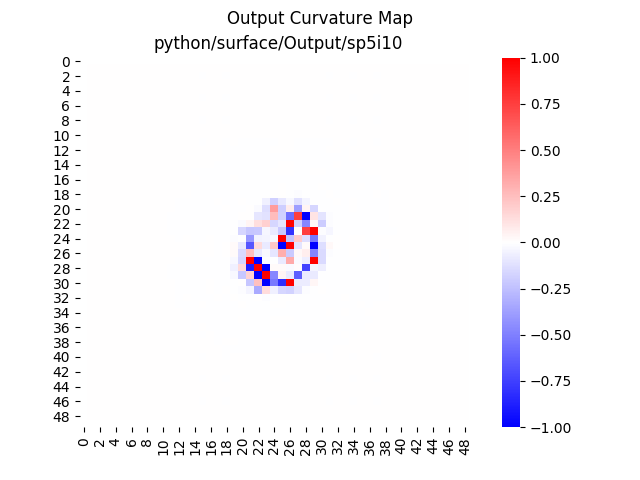
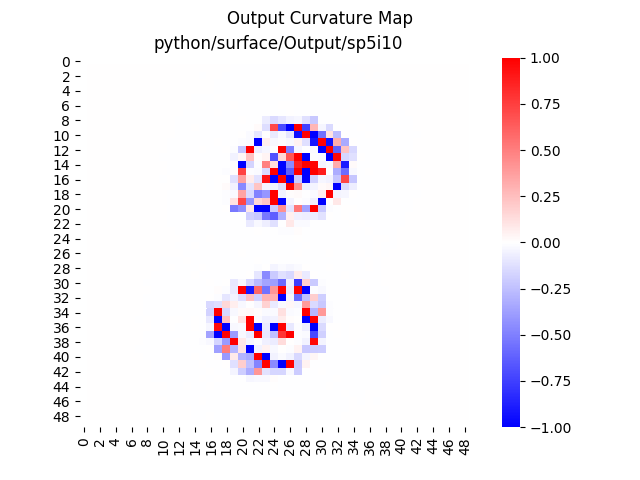
Add niter and smooth_pen variables for surface generation

Changed region(s): [[0.3125, 0.2188, 0.5625, 0.7812]]

diff --git a/js/script.js b/js/script.js
@@ -372,6 +372,7 @@ window.onload = function() {
   hideSurface.style.visibility = "hidden"
   document.getElementById("hide-surface-label").style.visibility = "hidden"
   let chkCalcSurface = document.getElementById("use-calc-surface")
+  let useTransp = document.getElementById("use-transparency")
   let showMap = document.getElementById("show-map")
 
 
@@ -731,7 +732,7 @@ window.onload = function() {
       let z3 = plane.geometry.vertices[face.c].z
       let hide = false
       let v = face.a
-      let i = v/divisions
+      let i = Math.floor(v/divisions)
       let j = v%divisions
       // if (z1 > 1)
       //   face.vertexColors[0].setHSL( 1, 0, 0.5);
@@ -794,11 +795,13 @@ window.onload = function() {
         face.materialIndex = 1
       } else if (false && hideSurface.checked && (z1 < -2.4 || z2 < -2.4 || z3 < -2.4)) { // Inward edge
         face.materialIndex = 1
-      } else if (transparent) {
+      } else if (transparent && useTransp.checked) {
         face.materialIndex = 2
       } else {
         face.materialIndex = 0
       }
+
+
     }
 
     contourCount++
@@ -1579,13 +1582,15 @@ function vertexPositionChange() {
 
 }
 
-function addVertex(obj, x, y, drawPoint, name, lat=0, long=0) {
+function addVertex(obj, x, y, drawPoint, name, lat=null, long=null) {
   if (typeof drawPoint == 'undefined')
     drawPoint = true
 
-  if (lat == 0 && long == 0) {
-    lat = x
-    long = y
+  if (lat == null) {
+    lat = x*155/10
+  }
+  if (long == null) {
+    long = y*180/10
   }
   if (typeof x == 'undefined') {
     x = getRandomArbitrary(-6, 6).toFixed(2)
@@ -2198,7 +2203,9 @@ function calcSurface() {
   var xmlHttp = new XMLHttpRequest();
   // xmlHttp.responseType = "arraybuffer"
   xmlHttp.responseType = "text"
-  console.log(data)
+  var smooth_pen = document.getElementById("input-smooth").value
+  var niter = document.getElementById("input-niter").value
+  var send_data = {graph: data, smooth_pen: smooth_pen, niter: niter}
 
   xmlHttp.onreadystatechange = function()
   {
@@ -2233,8 +2240,8 @@ function calcSurface() {
   }
   xmlHttp.open("post", "calc-surface");
   xmlHttp.setRequestHeader("Content-Type", "application/json;charset=UTF-8");
-
-  xmlHttp.send(JSON.stringify(data));
+  console.log(send_data)
+  xmlHttp.send(JSON.stringify(send_data));
   console.log("data sent")
   dataSent = true
   document.body.style.cursor = "progress"

diff --git a/index.html b/index.html
@@ -49,8 +49,17 @@
       </div>
       <div id="div-extra" class="gui-box">
         <!-- <button type="button" id="btn-scrn">Take screenshot</button> -->
-        <button type="button" id="btn-calc-surface">Calculate Surface</button>
-        <button type="button" id="btn-gen-graph">Generate template graph</button>
+        <div id="div-calc-surface">
+          <button type="button" id="btn-calc-surface">Calculate Surface</button>
+          <br>
+          <label for="show-map">Smoothness</label>
+          <input type="text" value="5" id="input-smooth">
+          <br>
+          <label for="show-map">No. of iterations</label>
+          <input type="text" value="20" id="input-niter">
+        </div>
+
+        <button type="button" id="btn-gen-graph">Generate sample graph</button>
         <button type="button" id="btn-gen-graph-empty">Generate graph (No Weights)</button>
 
 
@@ -64,6 +73,8 @@
         <input type="range" min="0" max="5" value="0" class="slider" step="1" id="threshold-slider">
         <input type="checkbox" id="show-map" name="show-map" checked>
         <label for="show-map"> Show map</label><br>
+        <input type="checkbox" id="use-transparency" name="use-transparency" checked>
+        <label for="use-transparency"> Use transparent surface</label><br>
         <input type="checkbox" id="hide-surface" name="hide-surface" checked>
         <label for="hide-surface" id="hide-surface-label"> Hide extra surface</label><br>
         <input type="checkbox" id="use-calc-surface" name="use-calc-surface" checked>

diff --git a/styles.css b/styles.css
@@ -50,7 +50,12 @@ button.btn-delete:hover {
   border-color: red;
 
 }
-
+#btn-add-edge {
+  display: inline-block;
+}
+#btn-calc-curv {
+  display: inline-block;
+}
 #btn-help {
   border-radius: 50px;
   min-width: 50px;
@@ -98,6 +103,7 @@ input[type=text] {
   margin-left: 0px;
   border: none;
   border-radius: 5px;
+  padding: 5px;
 }
 
 .gui-box>label {
@@ -123,7 +129,7 @@ input[type=text] {
   border-color: #E5E5E5;
   border-width: 5px;
   border-radius: 5px;
-  background-color: rgb(229, 229, 229, 0.2cd w);
+  background-color: rgb(229, 229, 229, 0.2);
   /* box-shadow: 0 0 0 13px #E5E5E5 inset; */
 }
 .gui-box>*{
@@ -162,6 +168,14 @@ input[type=text] {
   box-shadow: 0px 0px 15px #c2c2c2;
   padding: 10px;
 }
+#div-calc-surface {
+  padding: 5px;
+  border-radius: 5px;
+  background-color: rgb(229, 229, 229, 1.0);
+  width: 70%;
+  margin-bottom: 10px;
+
+}
 li {
   padding: 5px;
 }
@@ -172,7 +186,7 @@ li {
 }
 
 #zoom-out {
-  display:
+  display: none;
 }
 
 kbd.key {

diff --git a/app.py b/app.py
@@ -39,16 +39,12 @@ def calc_curvature():
 def calc_surface():
     print('start')
     data = request.json
-    # print(data)
+    print(data)
     # print("\n\n")
 
-
-    rate = 0.0001
-    smooth_pen = 50
-    momentum = 0.9
-    niter = 20
-
-    G = json_graph.node_link_graph(data)
+    smooth_pen = int(data['smooth_pen'])
+    niter = int(data['niter'])
+    G = json_graph.node_link_graph(data['graph'])
     H = nx.Graph(G)
     # print(type(H))
     # print(G.edges(data=True))
@@ -60,7 +56,7 @@ def calc_surface():
     def generate():
         cur_time = time.time()
         with concurrent.futures.ThreadPoolExecutor() as executor:
-            future = executor.submit(bd.main, ret)
+            future = executor.submit(bd.main, ret, smooth_pen, niter)
             while future.running():
                 time.sleep(5)
                 if time.time() - cur_time > 10:

diff --git a/python/surface/BasicDemo.py b/python/surface/BasicDemo.py
@@ -533,7 +533,7 @@ def get_heatmap(data):
     return fig
     # return plt.scatter(xf, yf, color = [cmap(rmap(p, -maxscale, 0, maxscale, 1, 0.5)) for p in curvatures.flatten()])
 
-def main(data):
+def main(data, smooth_pen=5, niter=20):
     global L3
     global cmap
 
@@ -604,9 +604,9 @@ def main(data):
 
 
     rate = 0.0001
-    smooth_pen = 5
+    # smooth_pen = 5
     momentum = 0.9
-    niter = 10
+    # niter = 20
 
 
 
@@ -621,6 +621,6 @@ def main(data):
         os.mkdir(runname)
     except FileExistsError:
         pass
-    document_run(runname, zf, cv, errvals, c_errvals, kappa, gridsize)
-    generate_plots(runname, gridsize, xf, yf, zf, cv, 'Data/map_points.csv', refc)
+    # document_run(runname, zf, cv, errvals, c_errvals, kappa, gridsize)
+    # generate_plots(runname, gridsize, xf, yf, zf, cv, 'Data/map_points.csv', refc)
     return zf
